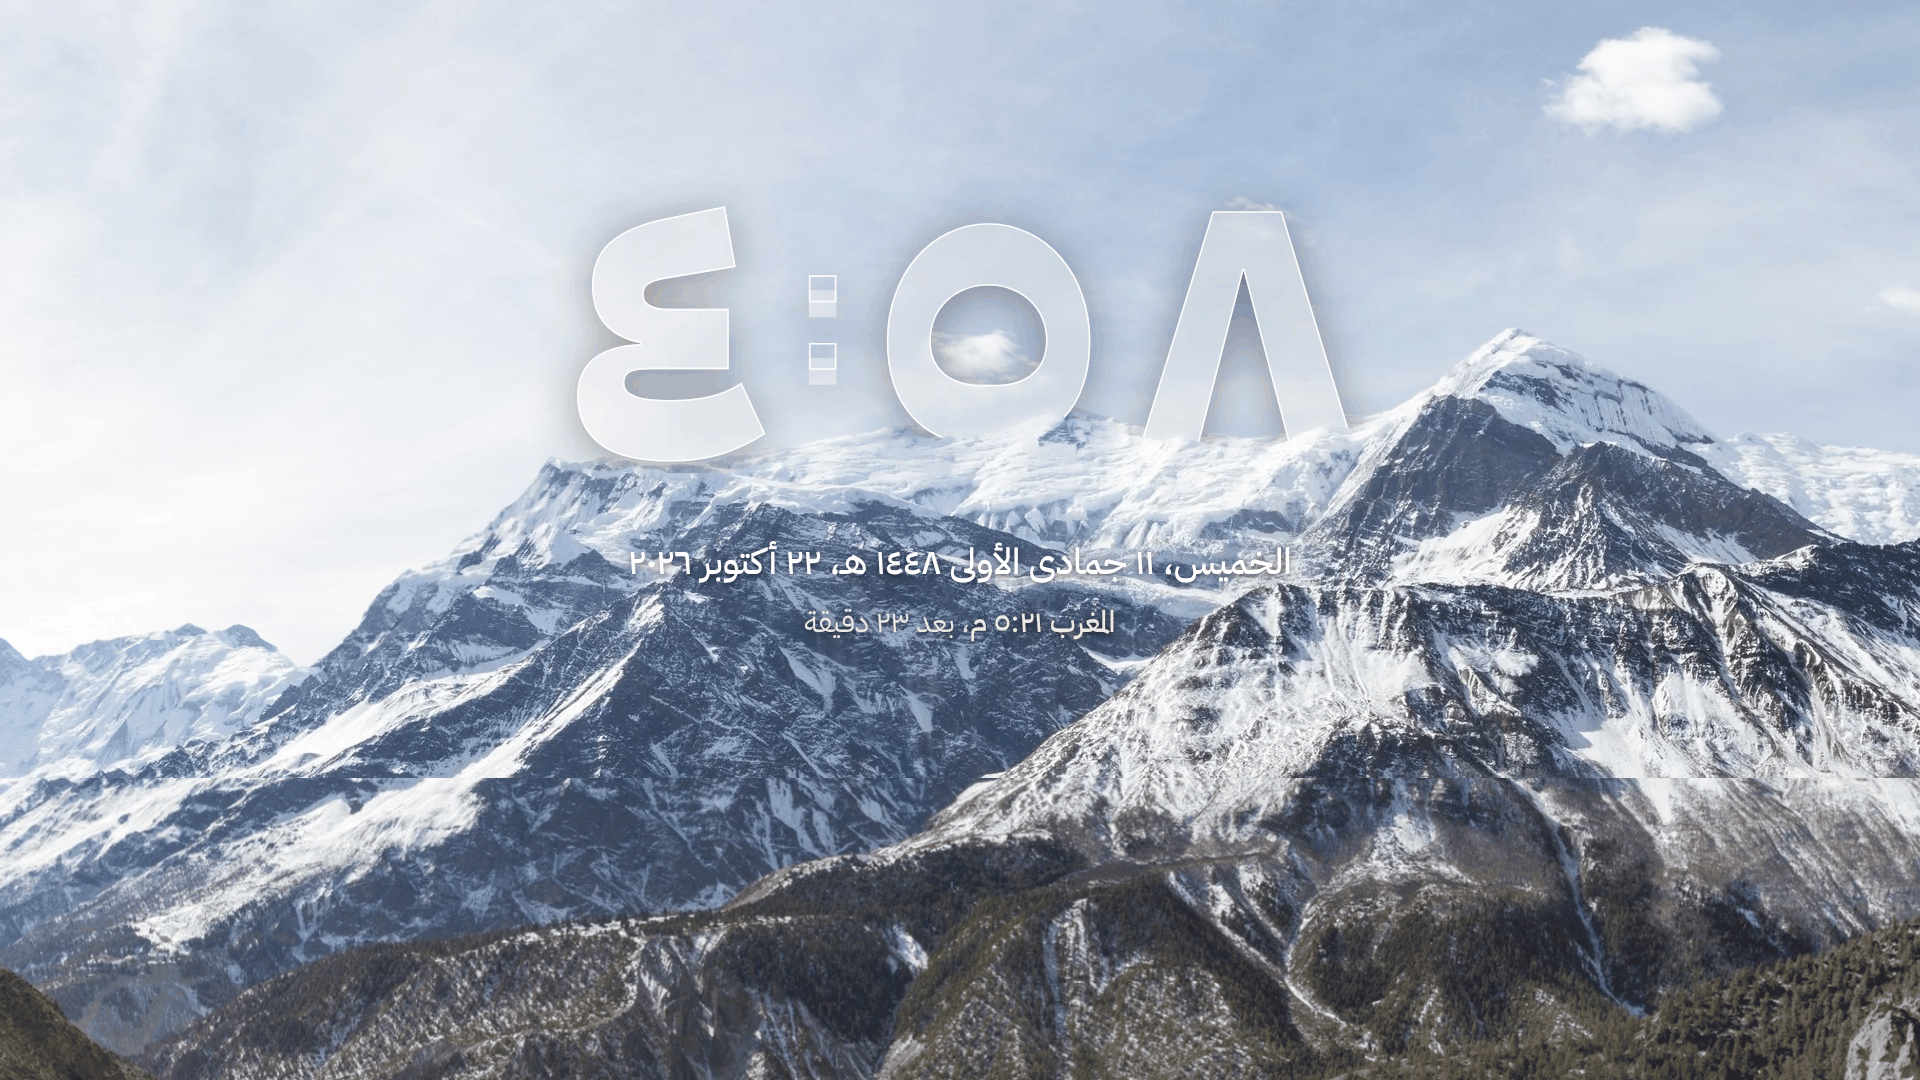
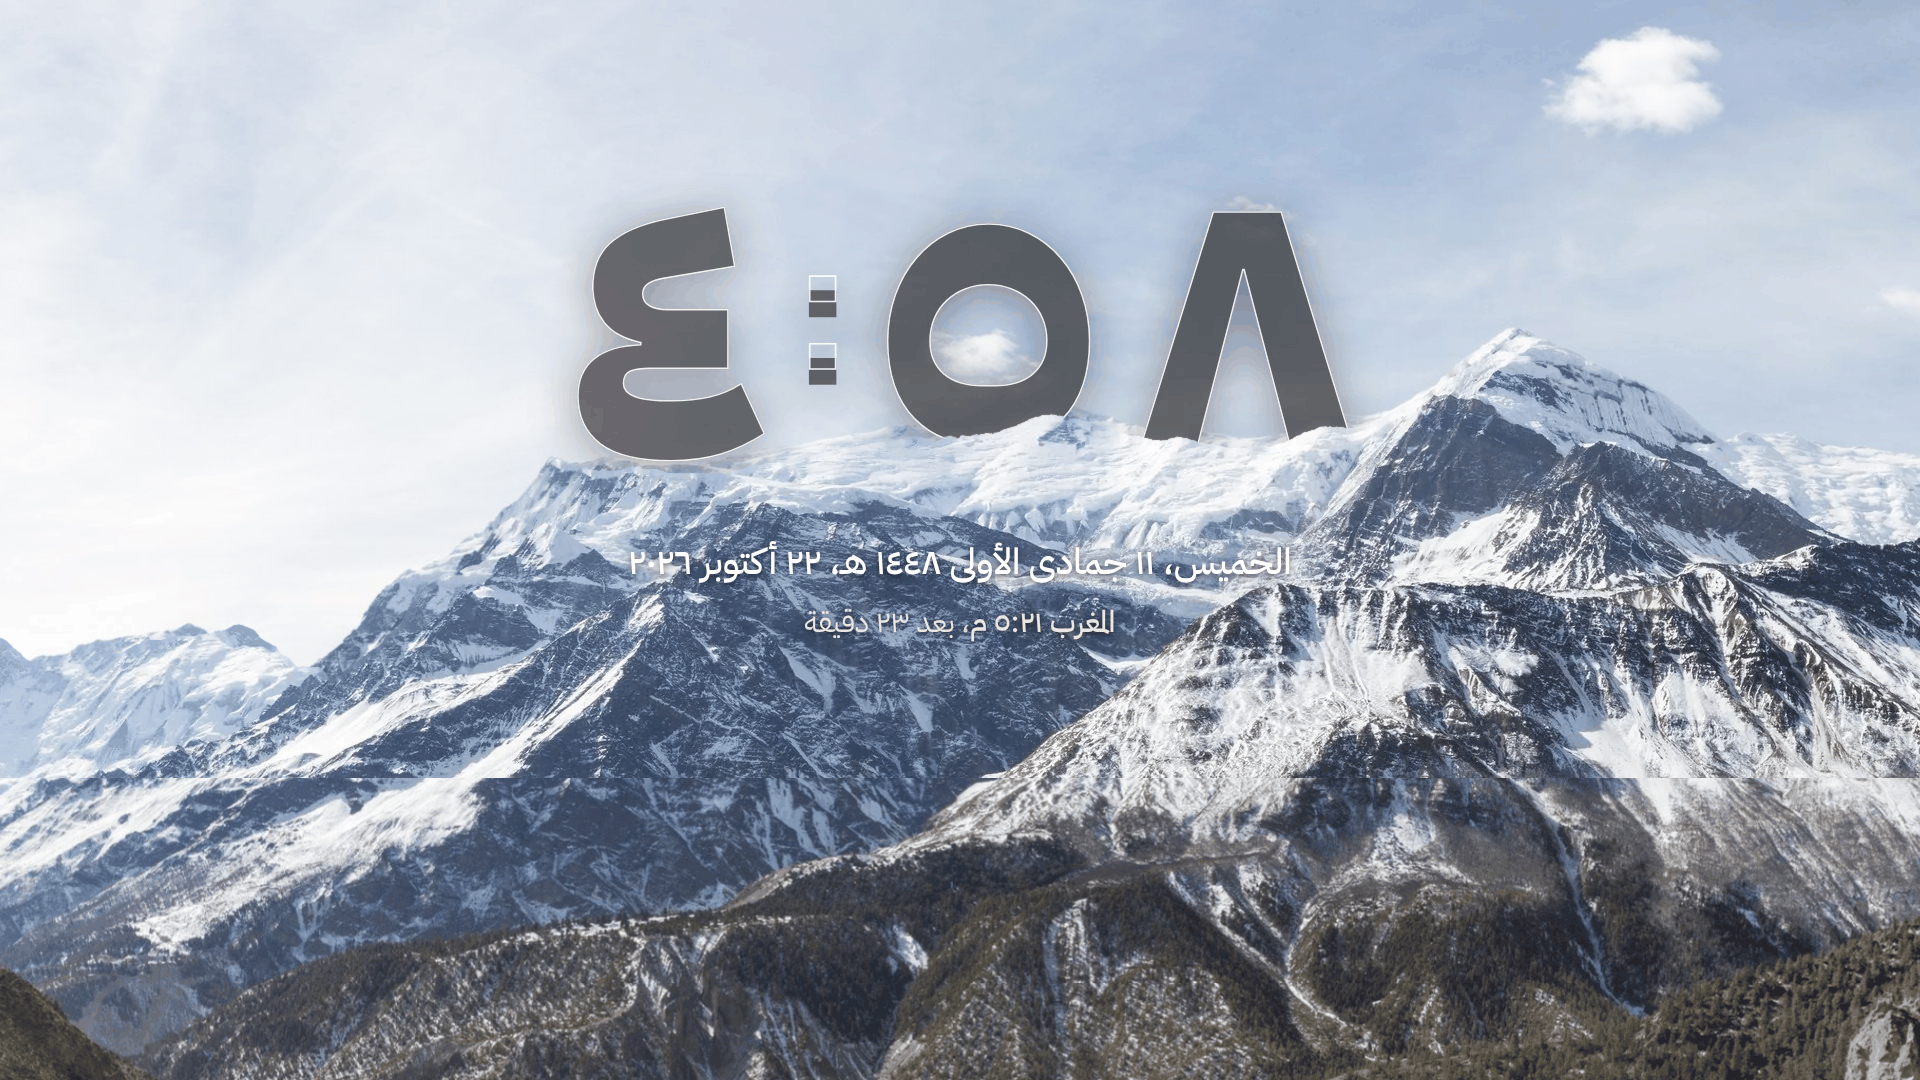
Screensaver designs 03 and 11: a pale photo behind the digits takes the dark glass (copy at 42 %, 94 % fill, the same rim and shadow), as in the app

Changed region(s): [[0.2812, 0.1833, 0.7188, 0.4278]]

diff --git a/docs/mockups/saver-designs/README.md b/docs/mockups/saver-designs/README.md
@@ -19,8 +19,8 @@
 **تحديث:** أُعيد رسم كل الصور بالمقصوصات الجديدة من جلسة التصميم (حواف ناعمة بلون المشهد، 8-bit، مقصوصة إلى صندوقها، تُرسم كما هي بلا حافة إضافية)
 وبزجاج التطبيق نفسه (`SceneClock.frost`: تشبّع ٦٠٪، ثم ×٠٫٧٢ مع ٣٠٪ أبيض، تعبئة ٨٨٪، حافة بيضاء ١٫٦ بكسل، ظل ناعم)، فذهب اللون الوردي. الأفق
 «ليل» من حزمة `couch` v4 (`work/433-scenes-data`). الطبيعة ٧ لم تعد منشورة (لا تقطع إلا شريحة من الأرقام)، فالصورة الآن الطبيعة ١٦.
-ملاحظة: على صورة ساطعة جدًا (سماء بيضاء، ثلج) الزجاج الفاتح يُقرأ بظله فقط (03 و11)؛ الأفضل أن يرفض بوّاب الأقنعة الصور الساطعة جدًا أو يغمّق
-الزجاج عليها.
+الصورة الشاحبة خلف الأرقام (متوسط الإضاءة فوق 185 على نسخة 160x90) تأخذ **الزجاج الداكن** كما في الآفاق (`SceneClock.frost(dark)`: النسخة
+بـ٤٢٪، تعبئة ٩٤٪، نفس الحافة والظل): 03 و11 بهذا الشكل.
 
 ## التصميمات
 
